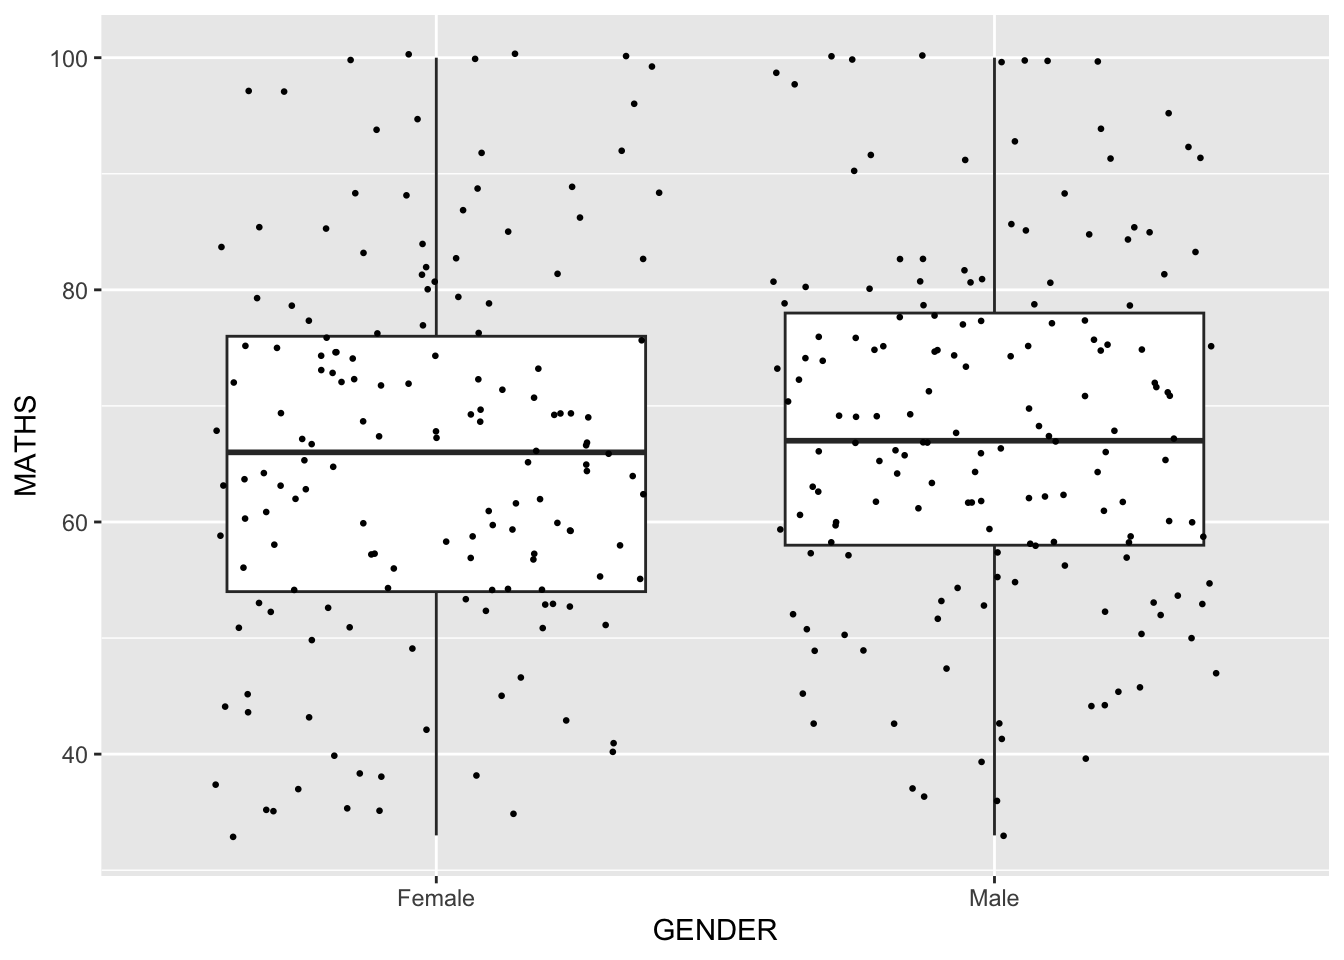
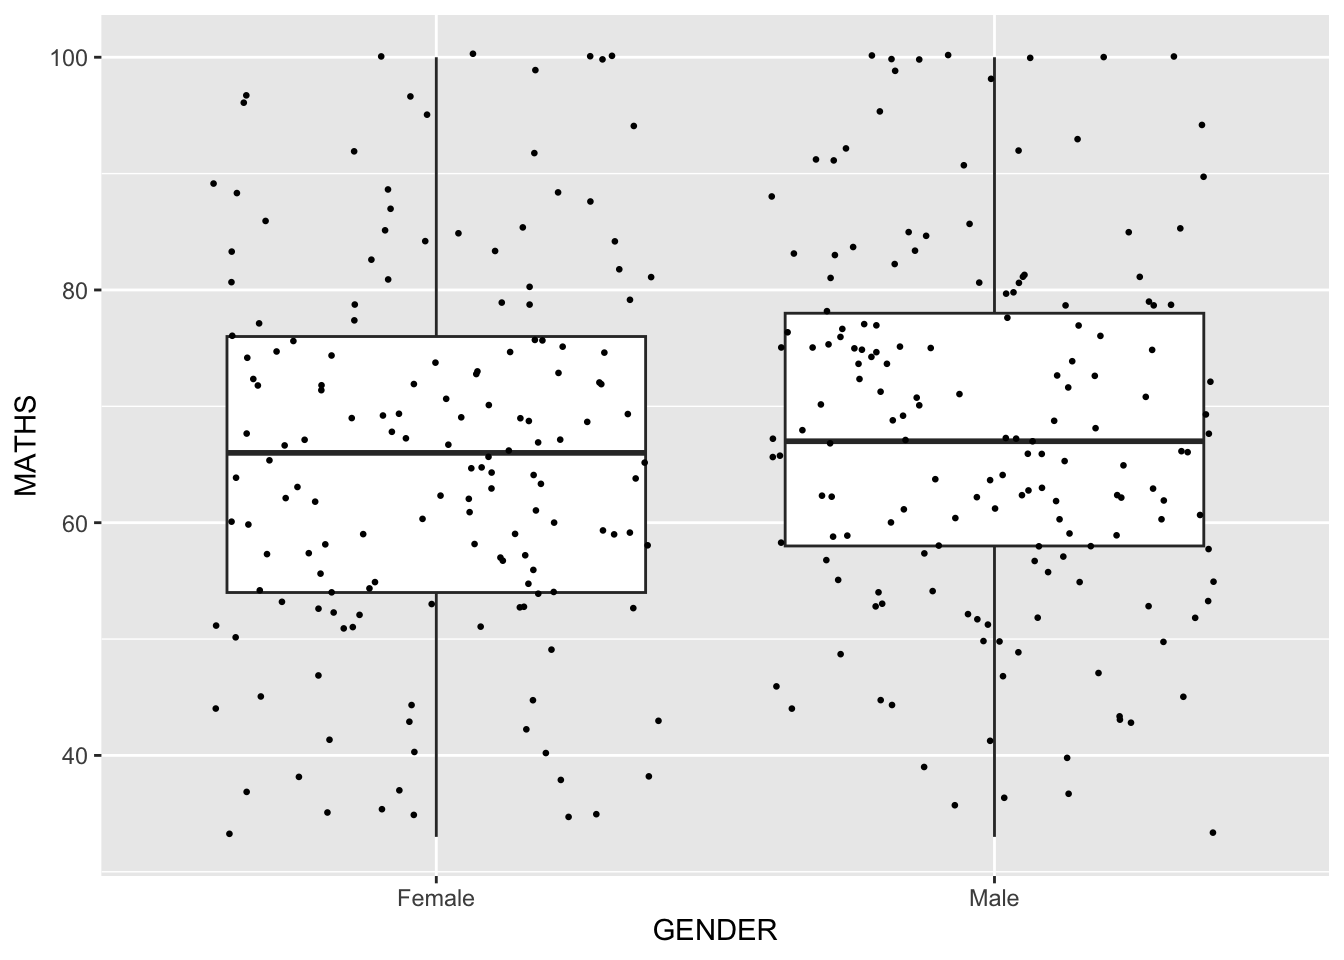
Update Hands-on Exercise 2 title

diff --git a/_site/Hands-on_Ex/Hands-on_Ex02/Hands-on_Ex02.html b/_site/Hands-on_Ex/Hands-on_Ex02/Hands-on_Ex02.html
@@ -8,7 +8,7 @@
 
 <meta name="author" content="Meng Xinyu">
 
-<title>Hands-on_Ex02.qmd – ISSS608-VAA</title>
+<title>Hands-on Exercise 2 – ISSS608-VAA</title>
 <style>
 /* Default styles provided by pandoc.
 ** See https://pandoc.org/MANUAL.html#variables-for-html for config info.
@@ -172,7 +172,7 @@ pre > code.sourceCode > span > a:first-child::before { text-decoration: underlin
 
 <header id="title-block-header" class="quarto-title-block default">
 <div class="quarto-title">
-<h1 class="title">Hands-on_Ex02.qmd</h1>
+<h1 class="title">Hands-on Exercise 2</h1>
 </div>
 
 